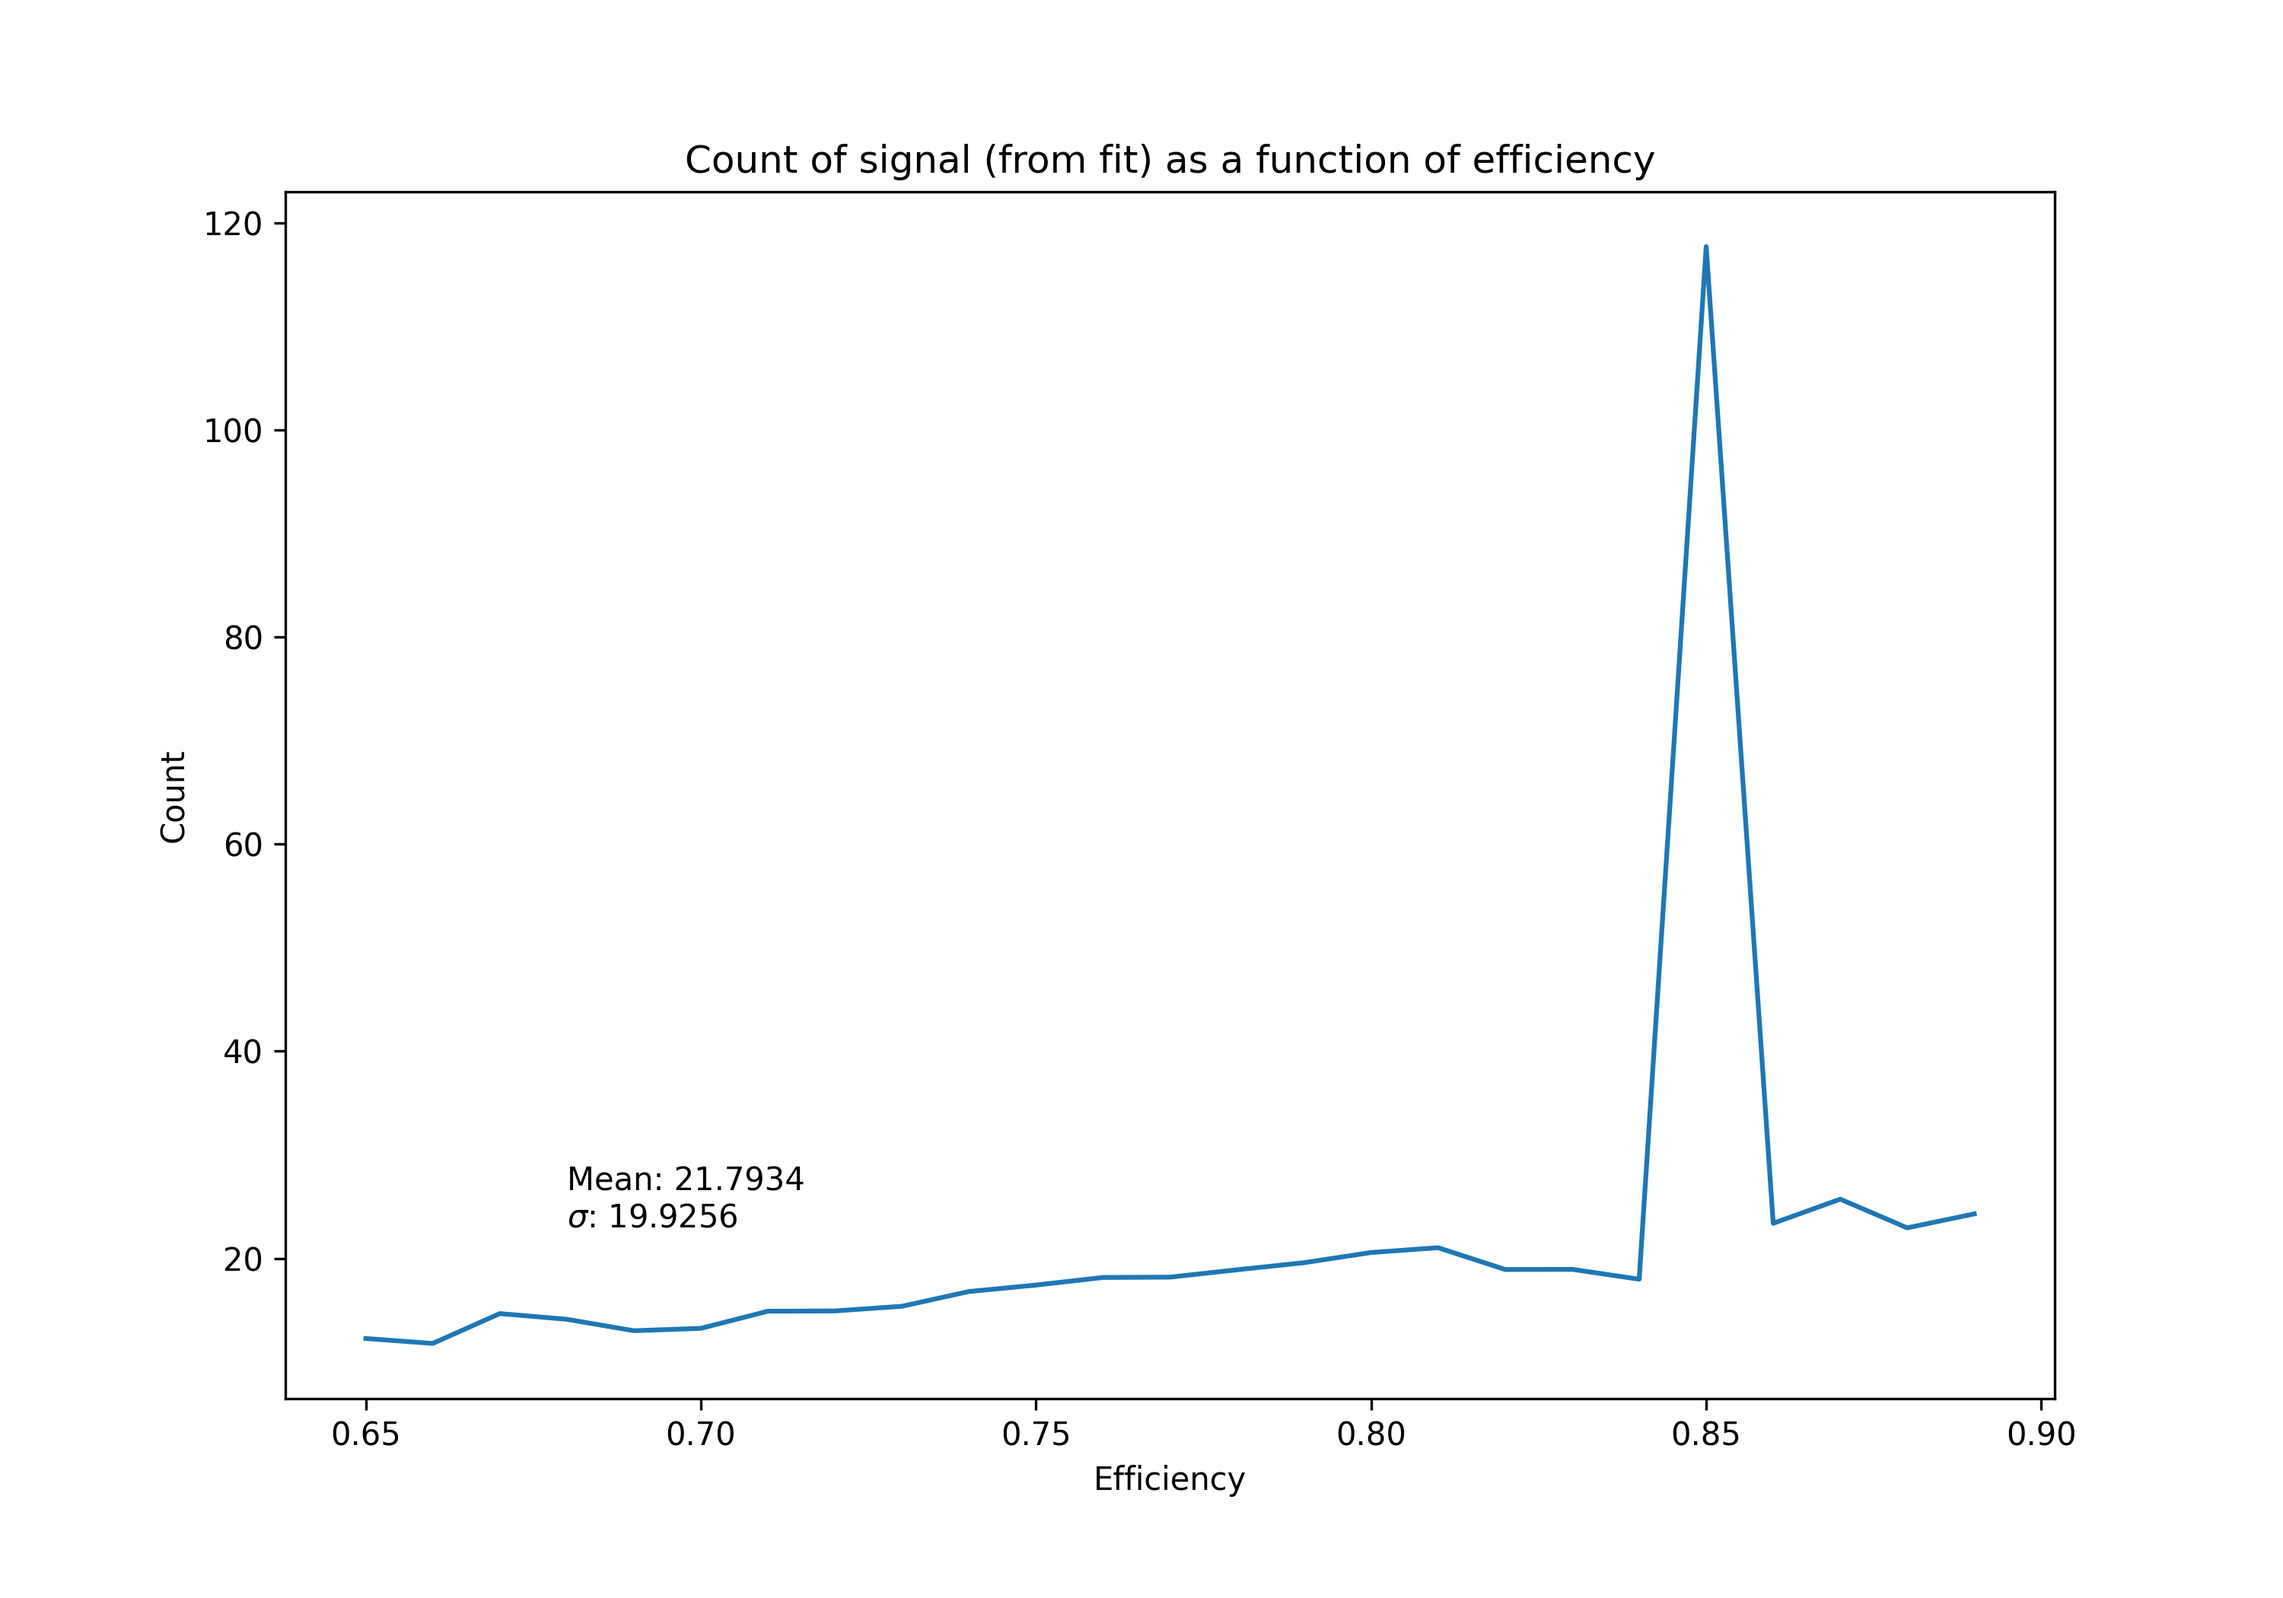
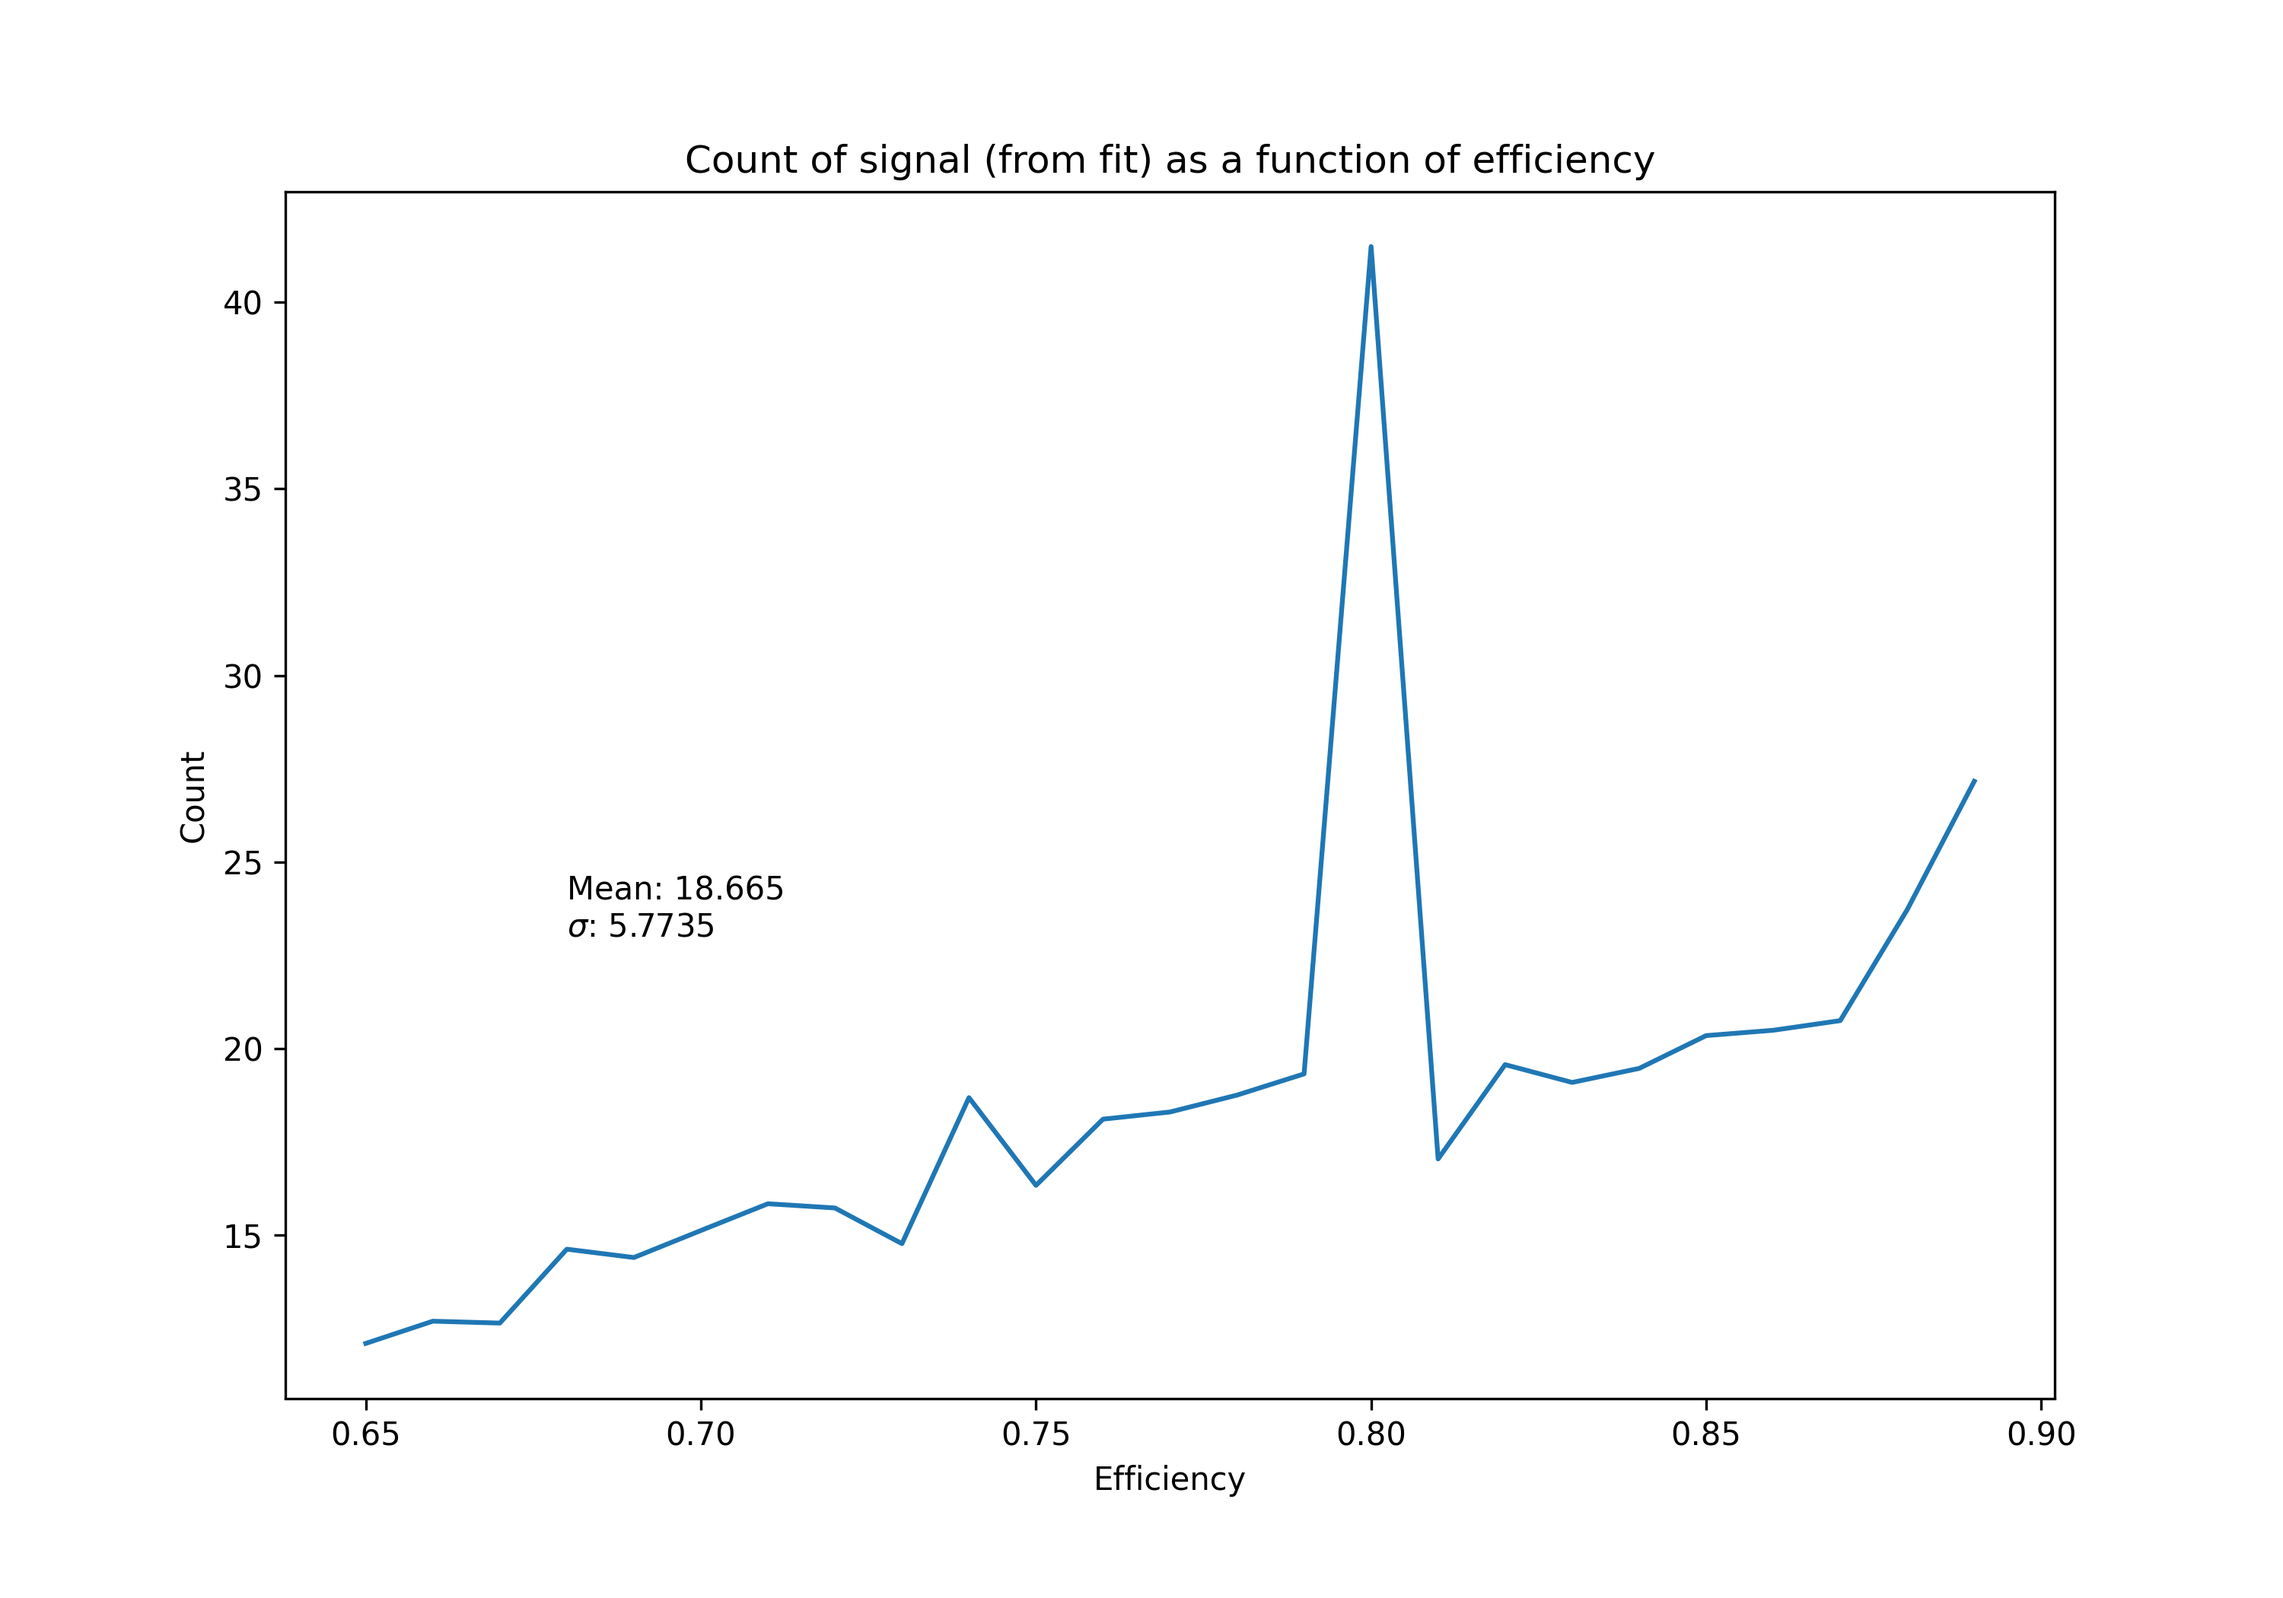
Update mass_fit.cpython-38.pyc, utils.cpython-38.pyc, and 73 more files...

diff --git a/prova.py b/prova.py
@@ -16,8 +16,6 @@ from hipe4ml.analysis_utils import *
 from hipe4ml import plot_utils
 #%%
 
-print('load dummy tree')
-
 a = TreeHandler(os.path.abspath(os.getcwd()) + '/data/SignalTable_pp13TeV_mtexp.root',"SignalTable")
 backgorund_ls = utils.get_large_data(a, os.path.abspath(os.getcwd()) + '/data/OLD_DataTable_pp_LS.root', "DataTable")
 del a
@@ -30,19 +28,43 @@ a = TreeHandler(os.path.abspath(os.getcwd()) + '/data/SignalTable_pp13TeV_mtexp.
 mc_signal = utils.get_large_data(a, os.path.abspath(os.getcwd()) + '/data/SignalTable_pp13TeV_mtexp.root',"SignalTable", 'rej_accept > 0 and pt>0')
 del a
 
-
 training_variables = ["pt", "cos_pa" , "tpc_ncls_de" , "tpc_ncls_pr" , "tpc_ncls_pi", "tpc_nsig_de", "tpc_nsig_pr", "tpc_nsig_pi", "dca_de_pr", "dca_de_pi", "dca_pr_pi", "dca_de_sv", "dca_pr_sv", "dca_pi_sv", "chi2"]
 
 #%%
 import imp
 imp.reload(utils)
 
+
 # %%
+data.get_var_names()
+#%%
 
 train_test_data, y_pred_test, data = utils.train_xgboost_model(mc_signal, backgorund_ls, data, training_variables)
 
 # %%
 
 utils.mass_spectrum_efficiency(train_test_data, y_pred_test, data)
+
+# %%
+
+
+min_eff = 0.5
+max_eff = 0.9
+step = 0.01
+
+i = min_eff
+
+for score in score_from_efficiency_array(train_test_data[3],y_pred_test,np.arange(min_eff,max_eff,step)):
+    sel = data.get_data_frame().query('model_output > ' + str(score))
+    utils.scatter_with_hist(sel['m'],sel['mppi'],[34,2.96,3.04],[34,np.min(sel['mppi']),np.max(sel['mppi'])],
+                            x_label='Hypertriton mass [GeV/$c^2$]',
+                            y_label='$p - \pi$ mass [GeV/$c^2$]', eff = i)
+    i += step
+
+
+utils.scatter_with_hist(data.get_data_frame().query('model_output > 4')['m'],
+                            np.sqrt(np.array(data.get_data_frame().query('model_output > 4')['mppi'])),
+                            [34,2.96,3.04],[34,1.05,1.2],
+                            x_label='Hypertriton mass [GeV/$c^2$]',y_label='$p - \pi$ mass [GeV/$c^2$]')
 
 # %%

diff --git a/utils.py b/utils.py
@@ -7,6 +7,8 @@ import os
 import xgboost as xgb
 import mass_fit
 import ROOT
+import hist
+import seaborn as sns
 from concurrent.futures import ThreadPoolExecutor
 from sklearn.model_selection import train_test_split
 from hipe4ml.model_handler import ModelHandler
@@ -26,8 +28,8 @@ def get_large_data(hndl,data_path, table, query = ''):
     selected_data = pd.DataFrame()
 
     for current_file, data in iterator:
-        print('current file: {}'.format(current_file))
-        print ('start entry chunk: {}, stop entry chunk: {}'.format(data.index[0], data.index[-1]))
+        #print('current file: {}'.format(current_file))
+        #print ('start entry chunk: {}, stop entry chunk: {}'.format(data.index[0], data.index[-1]))
 
         if query == '':
             selected_data = selected_data.append(data)
@@ -123,6 +125,32 @@ def bdt_feature_importance(train_test_data, model_handler):
     feat_imp_1, feat_imp_2 = plot_utils.plot_feature_imp(train_test_data[2],train_test_data[3],model_hdl,approximate=False)
     feat_imp_1.savefig('./images/model/feature_importance_HIPE4ML_violin.png',dpi=300,facecolor='white')
     feat_imp_2.savefig('./images/model/feature_importance_HIPE4ML_bar.png',dpi=300,facecolor='white')
+
+
+# %%
+
+def scatter_with_hist(x_data,y_data,x_axis,y_axis,x_label='',y_label='',eff = 0.):
+    '''
+    Plots a scatterplot with histograms of the distributions
+    '''
+    
+    plot = (
+        hist.Hist.new
+        .Reg(x_axis[0],x_axis[1],x_axis[2], name='x', label=x_label)
+        .Reg(y_axis[0],y_axis[1],y_axis[2], name='y', label=y_label)
+        .Double()
+        )
+
+    plot.fill(x=x_data,y=y_data)
+    plot.plot2d_full(
+        main_cmap="cividis",
+        top_color="steelblue",
+        top_lw=2,
+        side_lw=2,
+        side_color="steelblue"
+        )
+    plt.savefig('./images/m_mppi/scatter_eff_' + str(np.round(eff,4)) + '.png', dpi=300, facecolor='white')
+    plt.show()
 
 
 # %%
